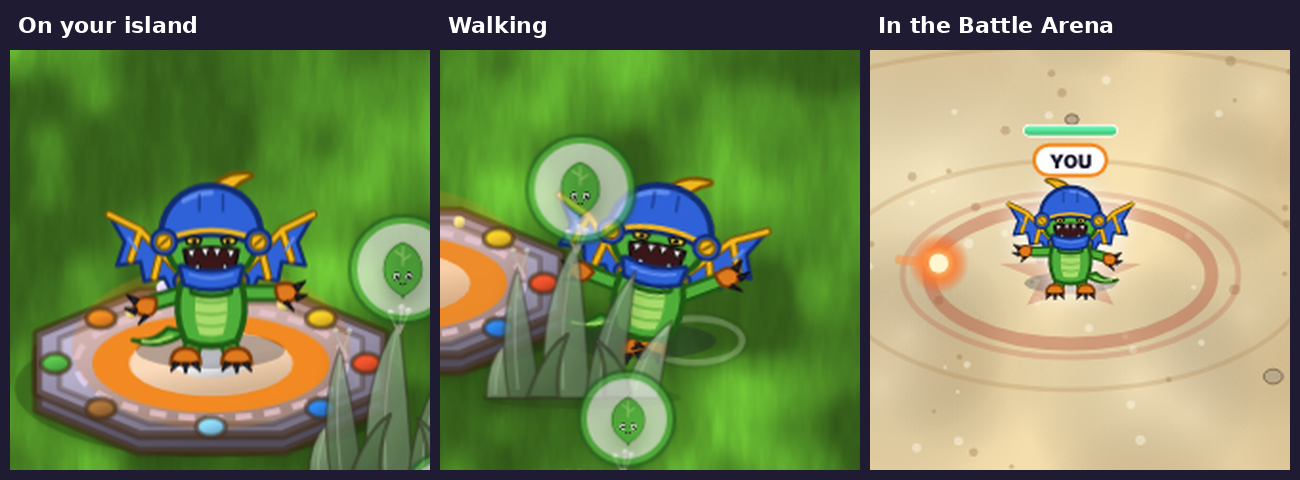
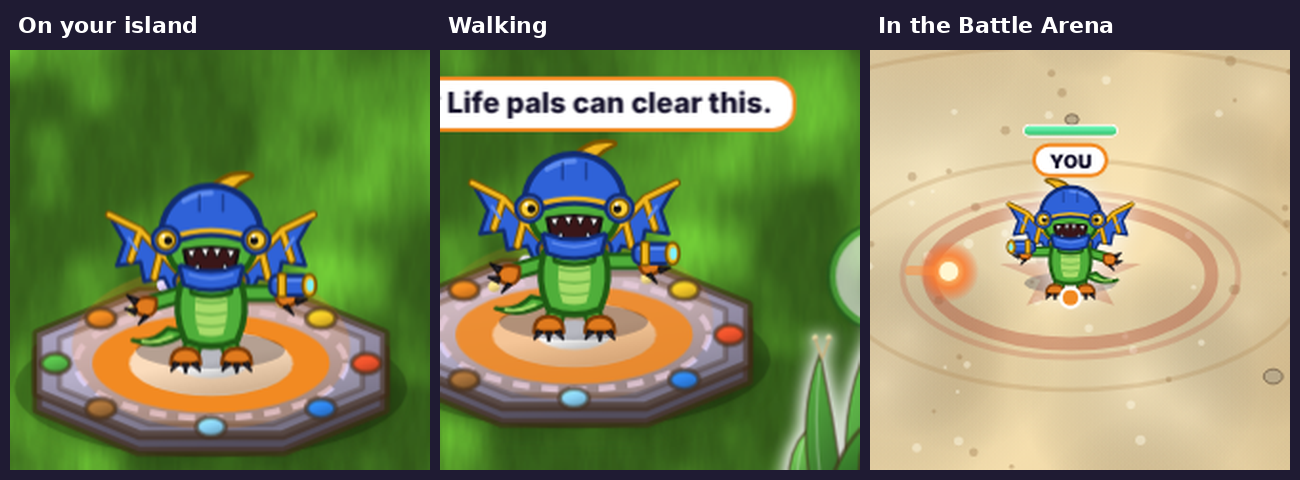
Preview: mech dragon with lens eyes and a wrist blaster (ranged)
Claude-Session: https://claude.ai/code/session_01VLdLc5ictpYJybhtPWKJ3B

diff --git a/src/previews/mechdragon.js b/src/previews/mechdragon.js
@@ -1,11 +1,18 @@
 /* Mech dragon (no name yet): the owner's own drawing of a green dinosaur-dragon in blue-and-gold mech gear: a blue helmet with
-   a gold crest and gold bolts, a toothy jaw, mech wings, orange clawed hands and feet (Tech, melee, Normal). (preview only) */
+   a gold crest and gold bolts, a toothy jaw, mech wings, orange clawed hands and feet, yellow lens eyes on the helmet, a wrist blaster (Tech, ranged, Normal). (preview only) */
 var MD = { G: '#4fae3a', GD: '#1f5a14', GL: '#a8dc6a', B: '#2f62d8', BD: '#122c72', BL: '#5f8cf0', Y: '#f2b81e', YD: '#7a5400', O: '#e07a1e', OD: '#7a3a08', K: '#2a2830' };
 function mdBolt(cx, cy, r){
   var M = MD;
   return '<circle cx="' + cx + '" cy="' + cy + '" r="' + r + '" fill="' + M.B + '" stroke="' + M.BD + '" stroke-width="1.8"/>' +
     '<circle cx="' + cx + '" cy="' + cy + '" r="' + (r * 0.62) + '" fill="' + M.Y + '" stroke="' + M.YD + '" stroke-width="1.3"/>' +
     '<path d="M' + (cx - r * 0.32) + ' ' + (cy + r * 0.28) + 'L' + (cx + r * 0.32) + ' ' + (cy - r * 0.28) + '" stroke="' + M.YD + '" stroke-width="1.3" stroke-linecap="round"/>';
+}
+function mdEye(cx, cy, r, m){      /* a yellow lens eye in a blue rim, the pupil looking a little toward the middle */
+  var M = MD, O = '#120f10';
+  return '<circle cx="' + cx + '" cy="' + cy + '" r="' + r + '" fill="' + M.B + '" stroke="' + M.BD + '" stroke-width="1.8"/>' +
+    '<circle cx="' + cx + '" cy="' + cy + '" r="' + (r * 0.68) + '" fill="#ffd23a" stroke="' + M.YD + '" stroke-width="1.4"/>' +
+    '<circle cx="' + (cx + r * 0.16 * m) + '" cy="' + (cy + r * 0.05) + '" r="' + (r * 0.3) + '" fill="' + O + '"/>' +
+    '<circle cx="' + (cx - r * 0.2) + '" cy="' + (cy - r * 0.28) + '" r="' + (r * 0.14) + '" fill="#fff"/>';
 }
 function mdClaws(x, y, m){      /* an orange hand with three black claws; m = 1 claws point right, -1 left */
   var M = MD; function X(v){ return x + v * m; }
@@ -35,10 +42,8 @@ function mdArt(){
     '<path d="M29 38Q50 30 71 38" fill="none" stroke="' + M.Y + '" stroke-width="2.6" stroke-linecap="round"/>' +
     '<path d="M36 19Q43 15 50 15" fill="none" stroke="' + M.BL + '" stroke-width="2.6" stroke-linecap="round"/>' +
     '<path d="M44 16V24M56 16V24" stroke="' + M.BD + '" stroke-width="1.4" stroke-linecap="round" stroke-opacity=".6"/>' +
-    mdBolt(26, 40, 6.4) + mdBolt(74, 40, 6.4) +
-    /* eyes peeking under the helmet rim */
-    '<path d="M37 38.5Q41 36.5 45 38.5L44 41Q41 42 38 41Z" fill="#ffe14a" stroke="' + O + '" stroke-width="1.4" stroke-linejoin="round"/><circle cx="41.4" cy="39.6" r="1.3" fill="' + O + '"/>' +
-    '<path d="M63 38.5Q59 36.5 55 38.5L56 41Q59 42 62 41Z" fill="#ffe14a" stroke="' + O + '" stroke-width="1.4" stroke-linejoin="round"/><circle cx="58.6" cy="39.6" r="1.3" fill="' + O + '"/>');
+    /* his eyes: the two yellow lenses on the sides of the helmet */
+    mdEye(27, 39, 7, 1) + mdEye(73, 39, 7, -1));
 }
 function mdBack(c){
   var M = MD;
@@ -69,7 +74,12 @@ function mdBack(c){
     '<g><g class="pump pR">' + arm(63, 66, 82, 66) + '</g></g></svg>';
 }
 function mdFront(c){
-  /* the front claw sits in the weapon group so it swipes when he attacks */
+  /* a blue-and-gold blaster strapped over the front claw; it sits in the weapon group so it kicks back when he fires */
+  var M = MD;
+  var gun = '<rect x="80" y="57" width="20" height="10" rx="3.5" fill="' + M.B + '" stroke="' + M.BD + '" stroke-width="2"/>' +
+    '<path d="M83 59.5H96" stroke="' + M.BL + '" stroke-width="1.6" stroke-linecap="round"/>' +
+    '<rect x="84" y="56" width="4" height="12" rx="1.2" fill="' + M.Y + '" stroke="' + M.YD + '" stroke-width="1.2"/>' +
+    '<ellipse cx="100" cy="62" rx="3.4" ry="5.6" fill="' + M.Y + '" stroke="' + M.YD + '" stroke-width="1.6"/><ellipse cx="100.4" cy="62" rx="1.8" ry="3.2" fill="#7ff3ff"/>';
   return '<svg class="limbs" viewBox="0 0 100 100" aria-hidden="true" style="overflow:visible">' +
-    '<g><g class="pump pR"><g class="wpn"><g transform="rotate(-18 86 64)">' + mdClaws(88, 66, 1) + '</g></g></g></g></svg>';
+    '<g><g class="pump pR"><g class="wpn"><g transform="rotate(-18 86 64)">' + mdClaws(88, 68, 1) + gun + '</g></g></g></g></svg>';
 }

diff --git a/HANDOFF.md b/HANDOFF.md
@@ -15,7 +15,7 @@ Portal Pals is a single-file browser game: build an island, pick pals, play mini
 | `src/i18n/` | Serbian translation. `sr2.py` = exact strings, `sr3.py` = templates (`§` = any text, `§1`/`§2` numbered). `build.py` injects the dictionary into the game file. |
 | `src/mkx.py` | Builds the test pages in `src/mock2/` (adds `window.__df`, `__th`, `__st`, … hooks). |
 | `src/mock2/` | Playwright test harness with a mock Firebase (`server.js` simulates Firestore rules, `rt.js` the Realtime Database). `t*.js` are tests. |
-| `src/previews/` | Drawings for special pals. Sir Rattlebones, Talon (eagle) and the undead dragon are **now in the game** as the Skeleton Knight, Sky Eagle and Grave Dragon looks (see Special pals); Puddle is still **not added**; the robot (`mecha.js`) is now in the game as the Wheel Bot. Now in the game as the Iron Cyclops: an original one-eyed soldier in black and gold (`cyclops.js`, `cyclops_preview.png`: all-black full helmet (no gold on it), one big blue eye in a round opening, black mouth grille, black plate armour with gold trim, gauntlet fists; Undead, melee, Giant). The owner's own drawing of a giant eyeball on a black-and-gold body was declined as an Eye-Brawl (Skylanders) look-alike, and so was a hooded/eye-only version; the helmet keeps it distinct. Now in the game as the Masked Rogue: a slim masked human rogue girl (`rogue.js`, `rogue_preview.png`: dark blue ponytail, green eye mask, brown bandana over nose and mouth, full brown leather armour, a dagger in each hand; Life, melee, Normal). The owner's green-elf ninja drawings were declined as Stealth Elf (Skylanders) look-alikes; the human version replaces them. Also previewed, not added: the owner's mech dragon (`mechdragon.js`, `mechdragon_preview.png`: green dino-dragon standing up, blue mech helmet with gold crest and bolts, toothy jaw, blue-and-gold mech wings, orange claws; Tech, Normal, melee claw swipe for now). To preview a drawing in game: insert its file before `var PAL_BODIES = {` in a temporary copy, add an entry, build the mock pages, and screenshot (see how the eagle/robot previews were made). Originally: Sir Rattlebones (skeleton knight, Undead, melee) and Puddle (chubby purple baby dragon with gold horns and teal wings, Magic, ranged), and Talon (placeholder name; the owner's own drawing of a blue eagle with an arm cannon, Air, ranged, with a 3-feather crest and glowing cannon core added; the cannon replaces the wand as his weapon). Also an unnamed slim undead purple dragon designed here (dark swept-back horns, bone ridge spikes, round snout, glowing cyan eyes, torn wings with holes, bony tail with a ghost flame, throws a ghost flame; Undead, ranged). The owner's own purple dragon drawing was declined as a Cynder look-alike, so this one was designed from scratch; an earlier cloud/storm version was dropped at the owner's request. The drawing functions are in `knight.js` / `dragon.js` / `eagle.js` / `wyrm.js`; `eagle_preview.png` / `wyrm_preview.png` show them in game. |
+| `src/previews/` | Drawings for special pals. Sir Rattlebones, Talon (eagle) and the undead dragon are **now in the game** as the Skeleton Knight, Sky Eagle and Grave Dragon looks (see Special pals); Puddle is still **not added**; the robot (`mecha.js`) is now in the game as the Wheel Bot. Now in the game as the Iron Cyclops: an original one-eyed soldier in black and gold (`cyclops.js`, `cyclops_preview.png`: all-black full helmet (no gold on it), one big blue eye in a round opening, black mouth grille, black plate armour with gold trim, gauntlet fists; Undead, melee, Giant). The owner's own drawing of a giant eyeball on a black-and-gold body was declined as an Eye-Brawl (Skylanders) look-alike, and so was a hooded/eye-only version; the helmet keeps it distinct. Now in the game as the Masked Rogue: a slim masked human rogue girl (`rogue.js`, `rogue_preview.png`: dark blue ponytail, green eye mask, brown bandana over nose and mouth, full brown leather armour, a dagger in each hand; Life, melee, Normal). The owner's green-elf ninja drawings were declined as Stealth Elf (Skylanders) look-alikes; the human version replaces them. Also previewed, not added: the owner's mech dragon (`mechdragon.js`, `mechdragon_preview.png`: green dino-dragon standing up, blue mech helmet with gold crest and bolts, toothy jaw, blue-and-gold mech wings, orange claws, yellow lens eyes on the helmet sides, wrist blaster; Tech, Normal, ranged). To preview a drawing in game: insert its file before `var PAL_BODIES = {` in a temporary copy, add an entry, build the mock pages, and screenshot (see how the eagle/robot previews were made). Originally: Sir Rattlebones (skeleton knight, Undead, melee) and Puddle (chubby purple baby dragon with gold horns and teal wings, Magic, ranged), and Talon (placeholder name; the owner's own drawing of a blue eagle with an arm cannon, Air, ranged, with a 3-feather crest and glowing cannon core added; the cannon replaces the wand as his weapon). Also an unnamed slim undead purple dragon designed here (dark swept-back horns, bone ridge spikes, round snout, glowing cyan eyes, torn wings with holes, bony tail with a ghost flame, throws a ghost flame; Undead, ranged). The owner's own purple dragon drawing was declined as a Cynder look-alike, so this one was designed from scratch; an earlier cloud/storm version was dropped at the owner's request. The drawing functions are in `knight.js` / `dragon.js` / `eagle.js` / `wyrm.js`; `eagle_preview.png` / `wyrm_preview.png` show them in game. |
 
 Test version (claude.ai artifact, owner's private test page): https://claude.ai/artifact/8Lgy5MWmdkUGTQynb3C2G2. Publish `src/portal-pals-play.html` to that URL after each change.
 
